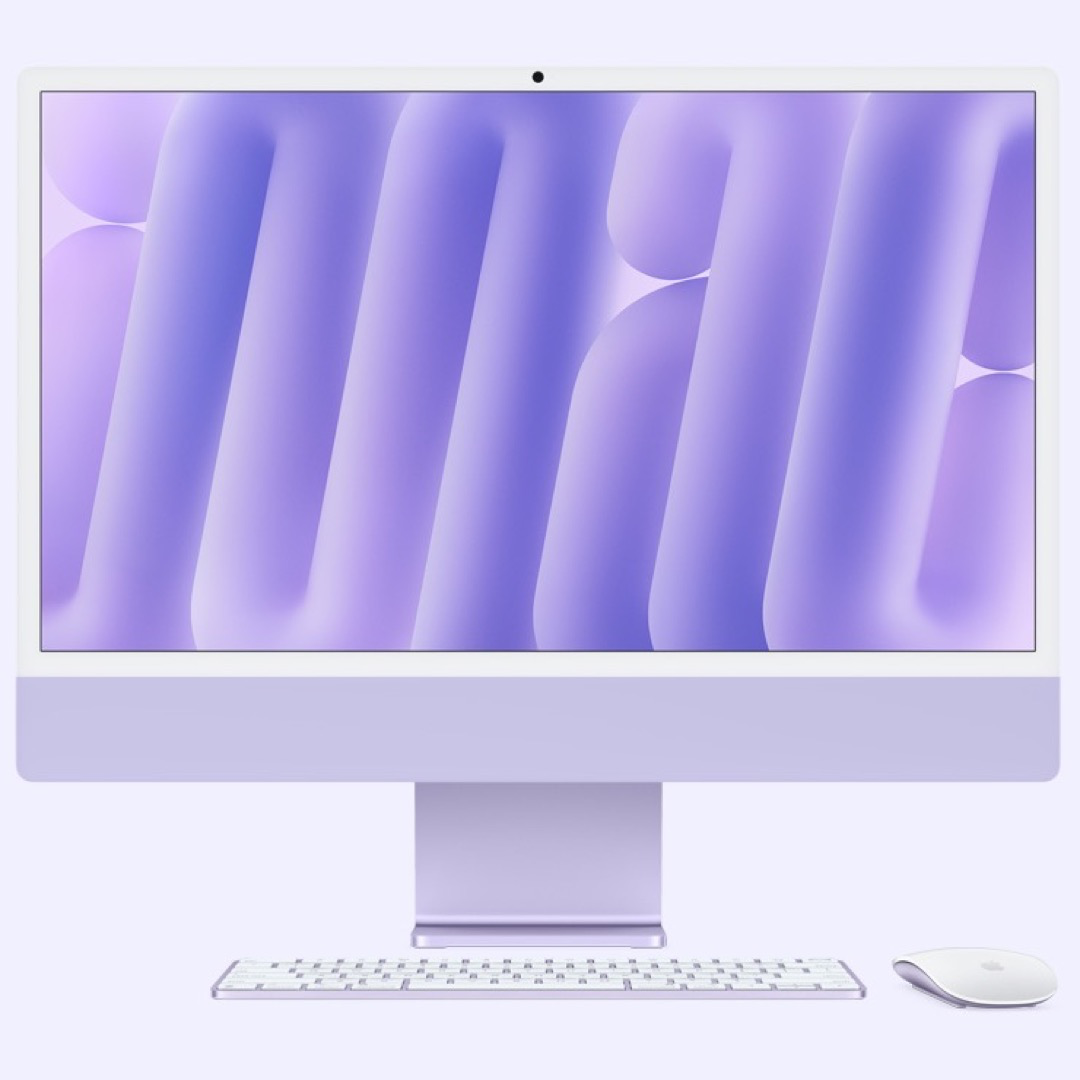
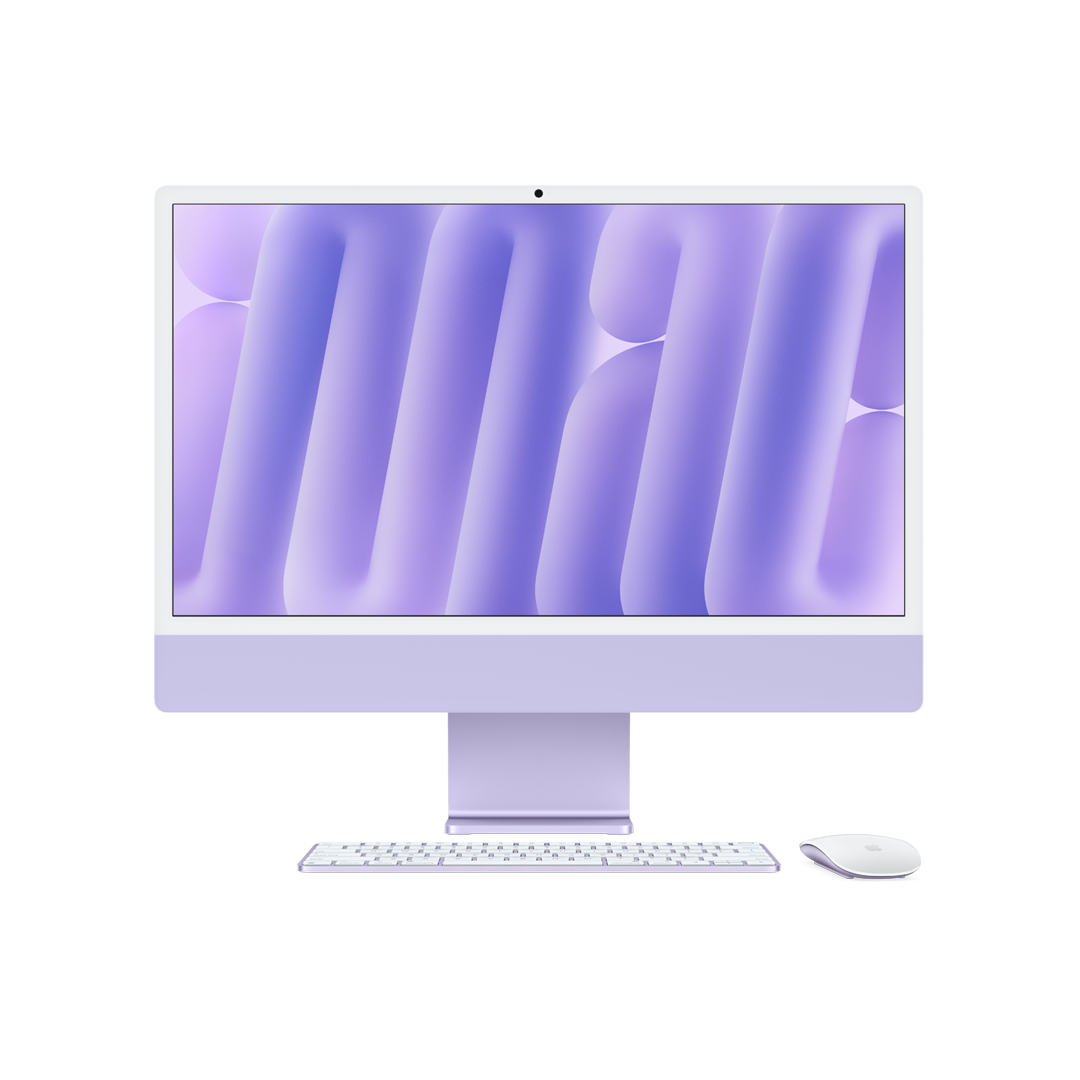
PNGs transparentes Air+iMac y nav en una sola fila
- MacBook Air (Medianoche, Plata, Blanco estrella, Azul cielo): sustituidas
  por PNGs transparentes 1080x1080 descargados del CDN oficial de Apple
  (mba13-*-select-202503, fmt=png-alpha). Sin fondo blanco.
- iMac 24" M4 (7 colores): sustituidas por PNGs transparentes 1080x1080
  del CDN de Apple (imac-touch-id-*/imac-vesa-*-selection-hero-202410).
- Nav strip Mac: eliminado flex-wrap, una sola fila con overflow-x-auto,
  items reducidos a w-24 shrink-0, centrados en lg+.

diff --git a/src/pages/FamilyPage.tsx b/src/pages/FamilyPage.tsx
@@ -134,10 +134,10 @@ function ShowcaseFamilyPage({ family, models }: { family: Family; models: Model[
             </p>
           </div>
 
-          <nav aria-label={`Modelos de ${family.name}`} className="mt-8 pb-2">
-            <ul className="flex flex-wrap justify-center gap-3">
+          <nav aria-label={`Modelos de ${family.name}`} className="mt-8 overflow-x-auto no-scrollbar pb-2">
+            <ul className="flex w-max min-w-full gap-2 justify-start lg:justify-center">
               {models.map((model) => (
-                <li key={model.slug} className="w-32 sm:w-36">
+                <li key={model.slug} className="w-24 shrink-0">
                   <Link
                     to={variantPath(model)}
                     className="group flex flex-col items-center rounded-[16px] border border-transparent px-3 py-3 text-center transition-[background-color,border-color,transform] hover:-translate-y-1 hover:border-line hover:bg-surface"
@@ -157,7 +157,7 @@ function ShowcaseFamilyPage({ family, models }: { family: Family; models: Model[
                   </Link>
                 </li>
               ))}
-              <li className="w-32 shrink-0 sm:w-36">
+              <li className="w-24 shrink-0">
                 <Link
                   to={`/comparar?familia=${family.slug}`}
                   className="group flex min-h-40 flex-col items-center justify-center rounded-[16px] border border-line bg-surface px-3 py-3 text-center transition-transform hover:-translate-y-1"
